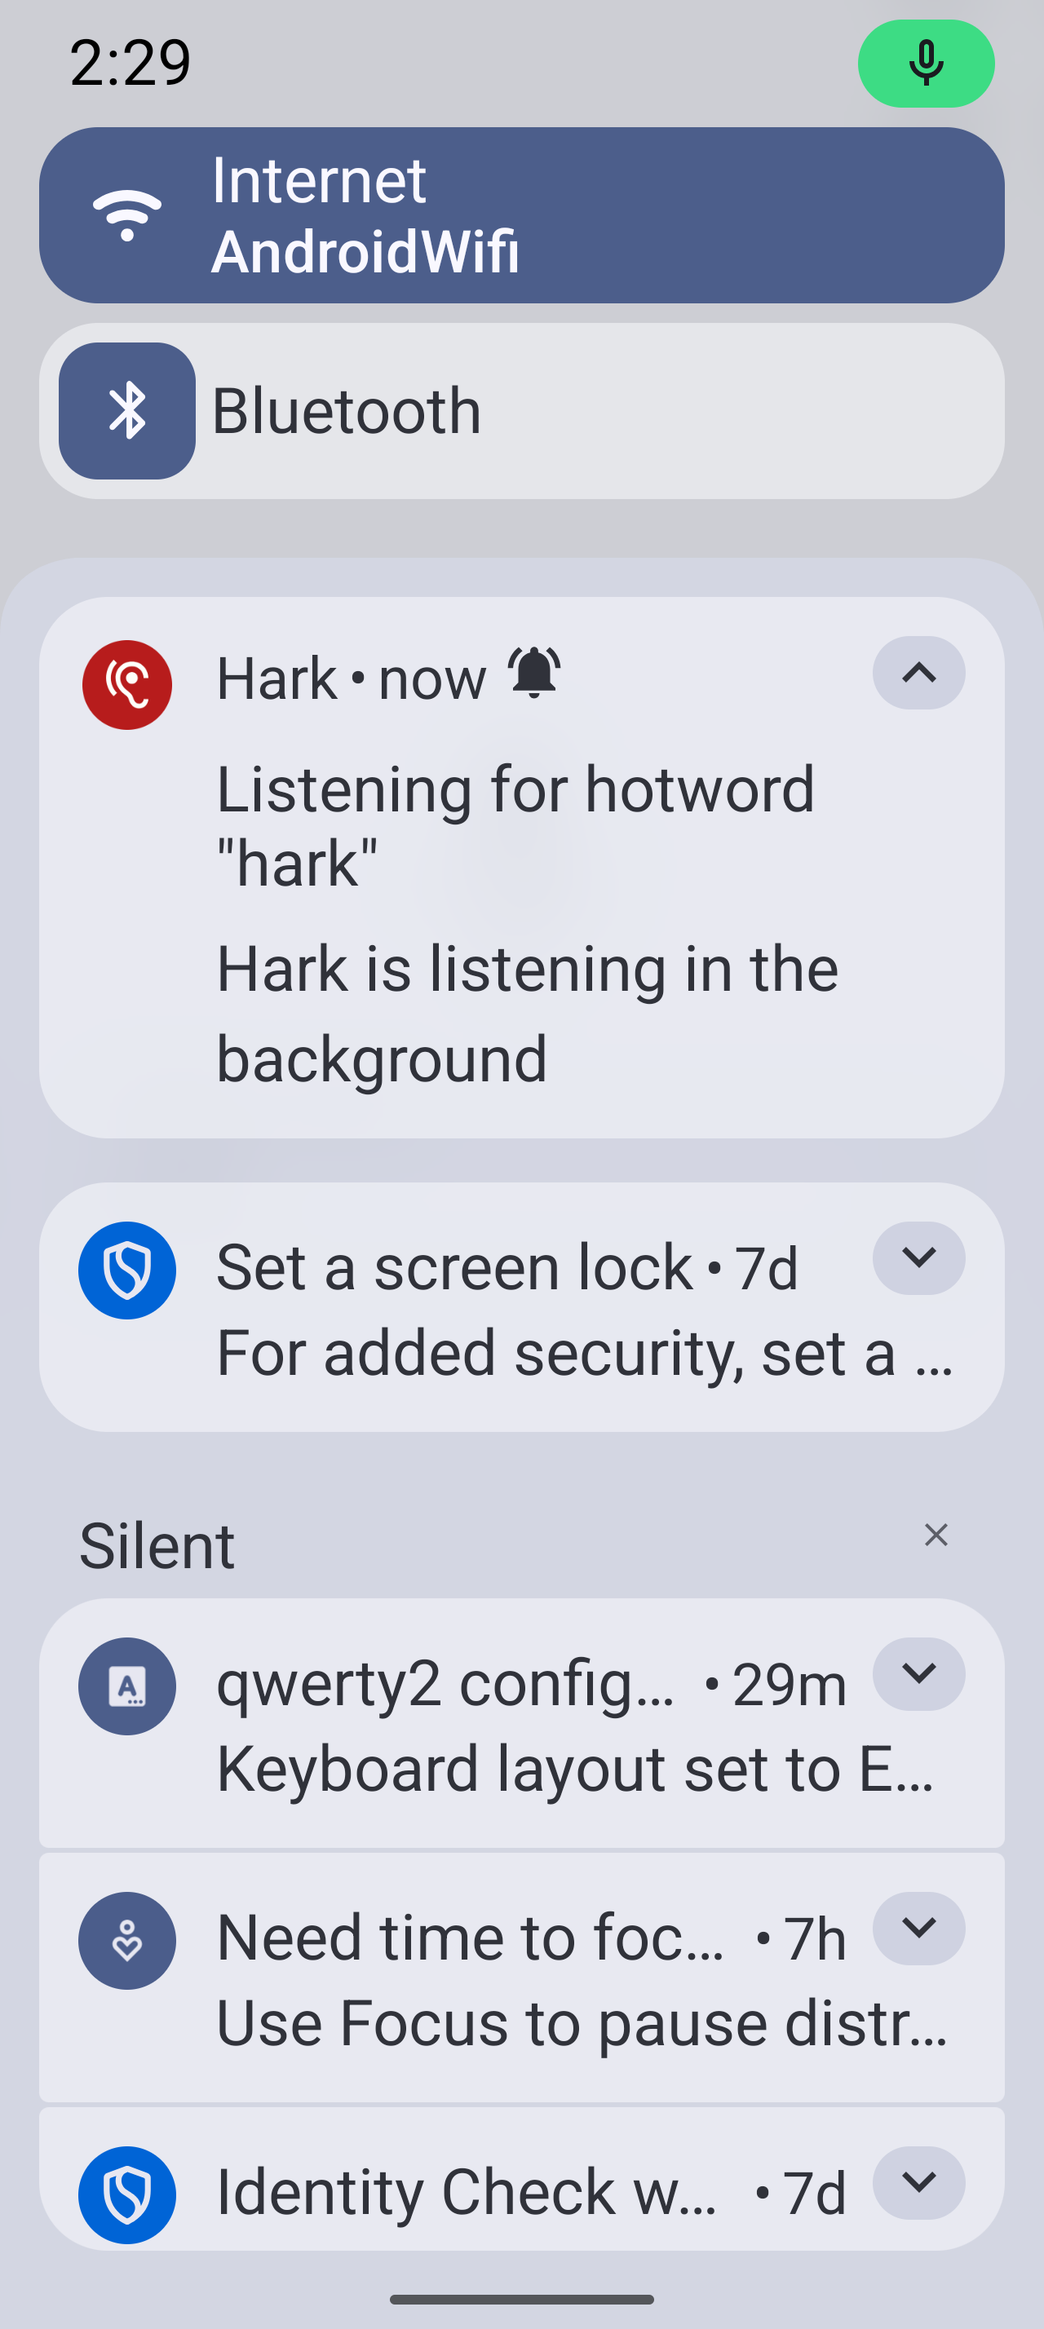
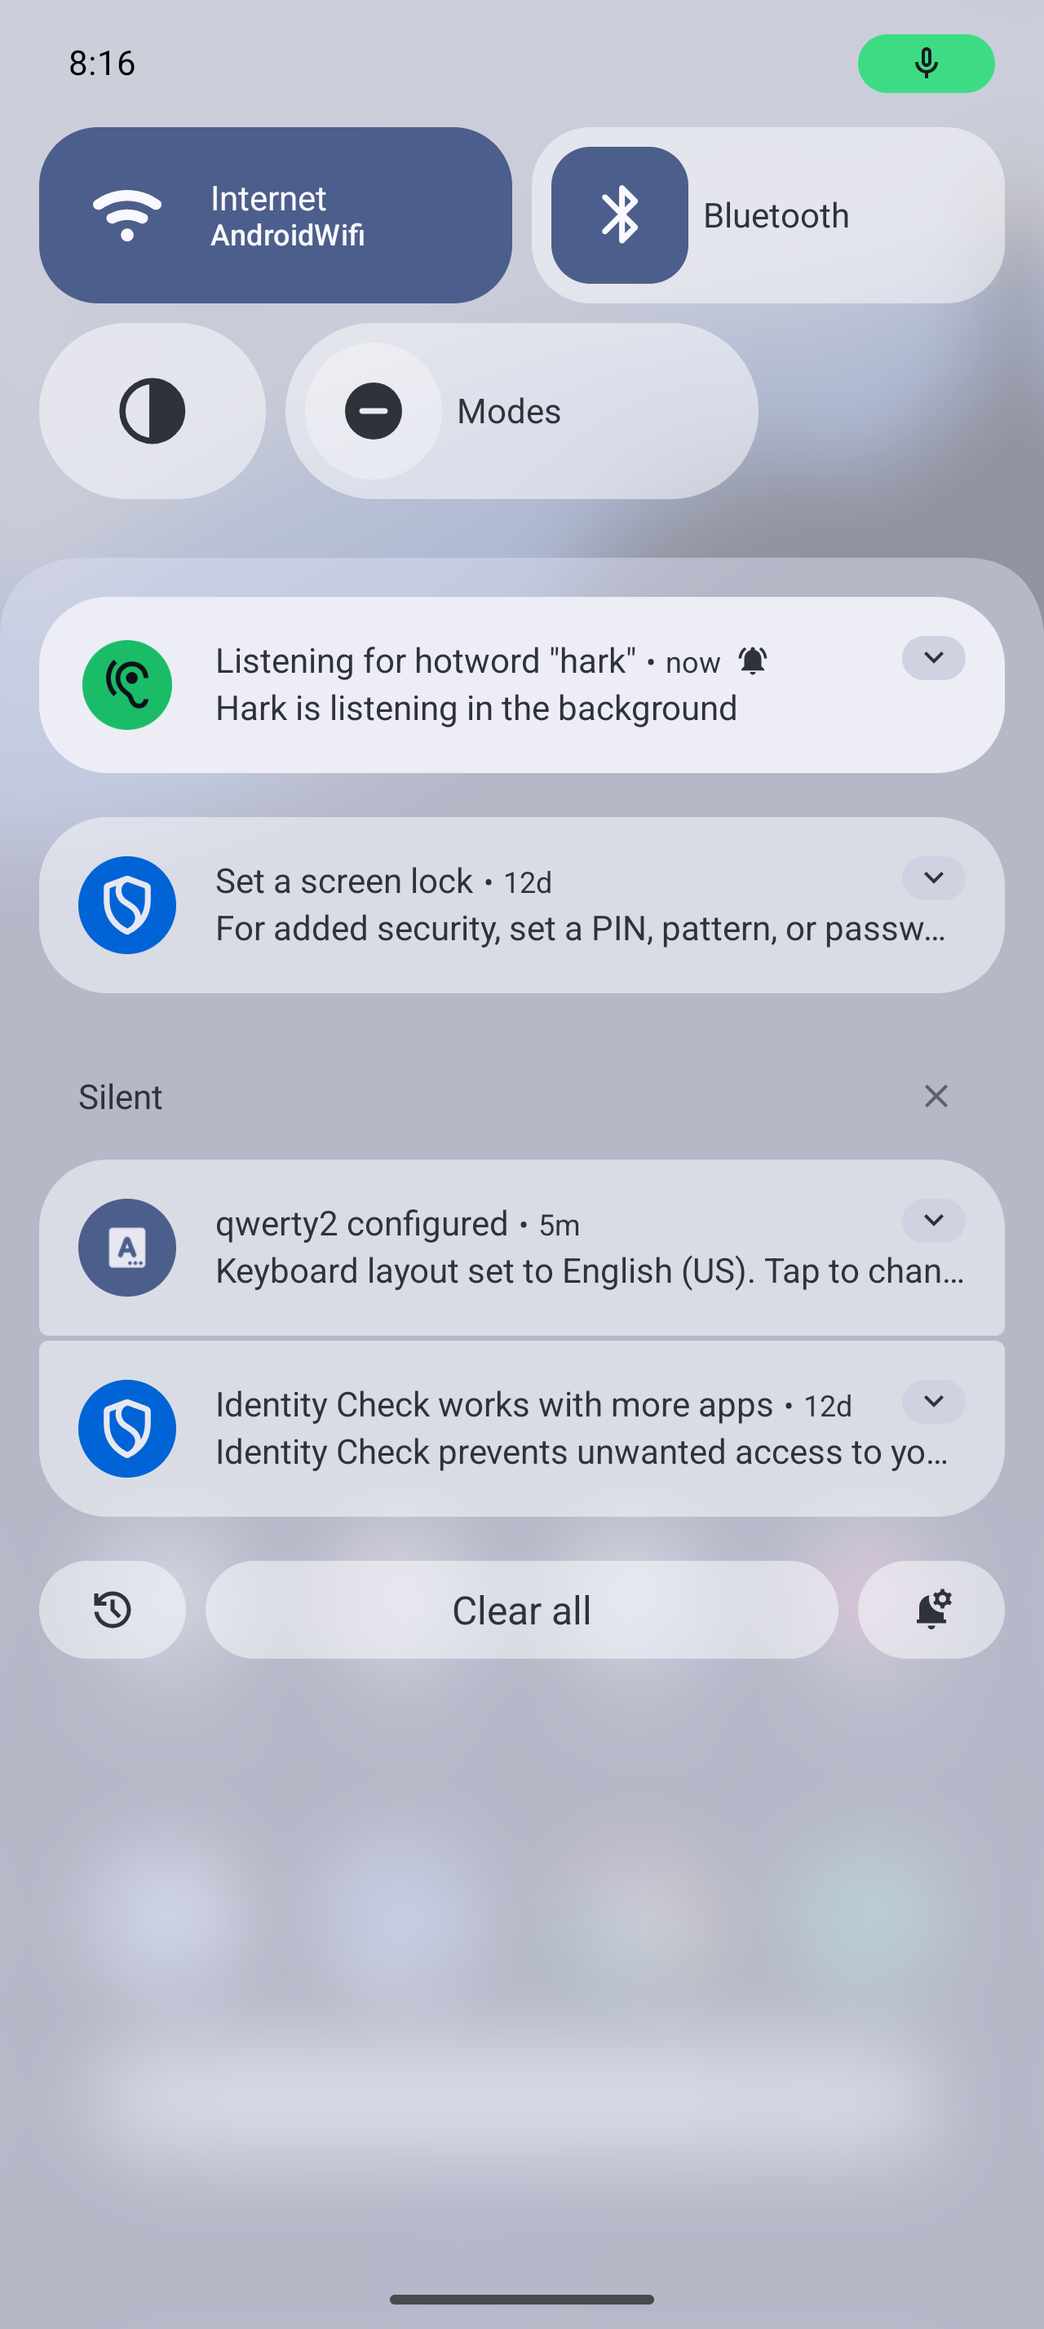
Fix sensitivity: persist it and use a stricter, measured scale (#11)
* Fix sensitivity: persist it, use a sane threshold range, make minimum stricter

Sensitivity was held only in the ViewModel, so every process restart reset it
to the lenient default. The slider also mapped 1..100 to 1e-2..1e-200, and
anything above ~22 underflowed to a threshold of 0.0, which fires on any
noise. The strictest setting (1e-2) was still too loose for a short word like
hark.

Slider is now 1..10 mapped to 1e-1..1e-19, saved in DataStore and loaded before
the first recognizer setup. Also rewords the settings copy and drops its em dash.

* Update README screenshots for the CRT terminal theme and new launcher accents

* Update README testing section and main screenshot

Test counts and class list were stale (64 tests, five classes). Now 81 tests
across seven classes, with the new BootReceiver and BrandColors tests, the
sensitivity coverage, and a note on what CI runs. Main screenshot shows the
settings gear below the status bar.

* Move README screenshots to just after the introduction

* README: document all permissions, boot persistence, and everything stored in DataStore

* Make the sensitivity scale stricter, tuned from measurements

Replaying 44 synthetic 'hark' utterances and 231 negatives (including near-rhymes
like hard, park, dark, harp) through the real decoder showed the keyword
threshold alone barely changes false alarms, even at 1e+2. The kws_delay and
kws_plp parameters do most of the work.
[…]

diff --git a/app/src/main/java/com/tuckercr/hark/ListenerViewModel.kt b/app/src/main/java/com/tuckercr/hark/ListenerViewModel.kt
@@ -29,6 +29,7 @@ import kotlinx.coroutines.flow.SharingStarted
 import kotlinx.coroutines.flow.StateFlow
 import kotlinx.coroutines.flow.asStateFlow
 import kotlinx.coroutines.flow.collectLatest
+import kotlinx.coroutines.flow.firstOrNull
 import kotlinx.coroutines.flow.stateIn
 import kotlinx.coroutines.flow.update
 import kotlinx.coroutines.launch
@@ -110,6 +111,11 @@ class ListenerViewModel @Inject constructor(
         checkPermissions()
         viewModelScope.launch {
             preferencesManager.wakeWordFlow.collectLatest { word ->
+                // Load the saved sensitivity before the first setup() so the recognizer never
+                // starts with the default and then restarts.
+                preferencesManager.sensitivityFlow.firstOrNull()?.let { saved ->
+                    _uiState.update { it.copy(sensitivity = saved.coerceIn(MIN_SENSITIVITY, MAX_SENSITIVITY)) }
+                }
                 val wakeWord = word ?: application.getString(R.string.default_wake_word)
                 if (_uiState.value.wakeWord != wakeWord) {
                     _uiState.update { it.copy(wakeWord = wakeWord) }
@@ -186,8 +192,8 @@ class ListenerViewModel @Inject constructor(
             return
         }
 
-        val threshold = ("1.e-" + 2 * _uiState.value.sensitivity).toFloat()
-        Log.d(TAG, "setup: wakeWord=$wakeWord threshold=$threshold")
+        val tuning = KeywordTuning.forSensitivity(_uiState.value.sensitivity)
+        Log.d(TAG, "setup: wakeWord=$wakeWord tuning=$tuning")
 
         setupJob?.cancel()
         setupJob =
@@ -205,7 +211,9 @@ class ListenerViewModel @Inject constructor(
                                 .defaultSetup()
                                 .setAcousticModel(File(assetsDir, "models/en-us-ptm"))
                                 .setDictionary(File(assetsDir, "models/lm/words.dic"))
-                                .setKeywordThreshold(threshold)
+                                .setKeywordThreshold(tuning.threshold)
+                                .setFloat("-kws_plp", tuning.phoneLoopProbability.toDouble())
+                                .setInteger("-kws_delay", tuning.delayFrames)
                                 .recognizer
                         }
                     newRecognizer.addKeyphraseSearch(HOT_WORD_SEARCH, wakeWord)
@@ -229,8 +237,10 @@ class ListenerViewModel @Inject constructor(
     }
 
     fun setSensitivity(value: Int) {
-        if (_uiState.value.sensitivity == value) return
-        _uiState.update { it.copy(sensitivity = value) }
+        if (_uiState.value.sensitivity == value.coerceIn(MIN_SENSITIVITY, MAX_SENSITIVITY)) return
+        val clamped = value.coerceIn(MIN_SENSITIVITY, MAX_SENSITIVITY)
+        _uiState.update { it.copy(sensitivity = clamped) }
+        viewModelScope.launch { preferencesManager.setSensitivity(clamped) }
         shutdownRecognizer()
         setup()
     }
@@ -310,6 +320,8 @@ class ListenerViewModel @Inject constructor(
     companion object {
         private const val TAG = "ListenerViewModel"
         private const val HOT_WORD_SEARCH = "HOT_WORD_SEARCH"
-        const val DEFAULT_SENSITIVITY = 3
+        const val MIN_SENSITIVITY = KeywordTuning.MIN_SENSITIVITY
+        const val MAX_SENSITIVITY = KeywordTuning.MAX_SENSITIVITY
+        const val DEFAULT_SENSITIVITY = KeywordTuning.DEFAULT_SENSITIVITY
     }
 }

diff --git a/app/src/main/java/com/tuckercr/hark/KeywordTuning.kt b/app/src/main/java/com/tuckercr/hark/KeywordTuning.kt
@@ -1,0 +1,44 @@
+package com.tuckercr.hark
+
+/**
+ * PocketSphinx keyword-spotting parameters for one slider position.
+ *
+ * [threshold] (`-kws_threshold`): smaller fires more easily.
+ * [phoneLoopProbability] (`-kws_plp`): higher makes the background model harder to beat.
+ * [delayFrames] (`-kws_delay`, 10 ms frames): wait this long after the word for the best score.
+ * More delay means fewer false alarms but slower and less certain detection.
+ */
+data class KeywordTuning(
+    val threshold: Float,
+    val phoneLoopProbability: Float,
+    val delayFrames: Int,
+) {
+    companion object {
+        const val MIN_SENSITIVITY = 1
+        const val MAX_SENSITIVITY = 10
+        const val DEFAULT_SENSITIVITY = 4
+
+        /**
+         * Measured on the "hark" keyphrase with 11 synthetic voices (44 target utterances, 231
+         * negatives including near-rhymes such as hard, heart, park, dark, hawk, harp, car). The
+         * threshold alone barely changes the false-alarm rate; delay and plp do most of the work.
+         * Approximate hits / false alarms: 1: 3/4, 2: 5/4, 3: 7/7, 4: 12/17, 5: 14/20, 6: 16/35,
+         * 7: 17/52, 8: 20/70, 9: 25/82. Level 10 is extrapolated.
+         */
+        private val LEVELS =
+            listOf(
+                KeywordTuning(1e-1f, 0.9f, 80),
+                KeywordTuning(1e-5f, 0.9f, 80),
+                KeywordTuning(1e-10f, 0.9f, 80),
+                KeywordTuning(1e-3f, 0.9f, 40),
+                KeywordTuning(1e-5f, 0.9f, 40),
+                KeywordTuning(1e-10f, 0.9f, 40),
+                KeywordTuning(1e-10f, 0.1f, 10),
+                KeywordTuning(1e-15f, 0.1f, 10),
+                KeywordTuning(1e-20f, 0.1f, 10),
+                KeywordTuning(1e-30f, 0.1f, 10),
+            )
+
+        fun forSensitivity(sensitivity: Int): KeywordTuning = LEVELS[sensitivity.coerceIn(MIN_SENSITIVITY, MAX_SENSITIVITY) - 1]
+    }
+}

diff --git a/app/src/main/java/com/tuckercr/hark/prefs/PreferencesManager.kt b/app/src/main/java/com/tuckercr/hark/prefs/PreferencesManager.kt
@@ -5,6 +5,7 @@ import androidx.datastore.preferences.core.Preferences
 import androidx.datastore.preferences.core.booleanPreferencesKey
 import androidx.datastore.preferences.core.edit
 import androidx.datastore.preferences.core.emptyPreferences
+import androidx.datastore.preferences.core.intPreferencesKey
 import androidx.datastore.preferences.core.stringPreferencesKey
 import com.tuckercr.hark.DetectionAction
 import kotlinx.coroutines.flow.Flow
@@ -18,6 +19,7 @@ class PreferencesManager(
     object PreferencesKeys {
         val WAKE_WORD = stringPreferencesKey("wake_word")
         val ONBOARDING_COMPLETE = booleanPreferencesKey("onboarding_complete")
+        val SENSITIVITY = intPreferencesKey("sensitivity")
         val DETECTION_ACTION_TYPE = stringPreferencesKey("detection_action_type")
         val DETECTION_ACTION_PACKAGE = stringPreferencesKey("detection_action_package")
         val DETECTION_ACTION_NAME = stringPreferencesKey("detection_action_name")
@@ -29,6 +31,8 @@ class PreferencesManager(
         }
 
     val wakeWordFlow: Flow<String?> = safeData.map { it[PreferencesKeys.WAKE_WORD] }
+
+    val sensitivityFlow: Flow<Int?> = safeData.map { it[PreferencesKeys.SENSITIVITY] }
 
     val onboardingCompleteFlow: Flow<Boolean> =
         safeData.map { it[PreferencesKeys.ONBOARDING_COMPLETE] ?: false }
@@ -47,6 +51,10 @@ class PreferencesManager(
 
     suspend fun updateWakeWord(wakeWord: String) {
         dataStore.edit { it[PreferencesKeys.WAKE_WORD] = wakeWord }
+    }
+
+    suspend fun setSensitivity(sensitivity: Int) {
+        dataStore.edit { it[PreferencesKeys.SENSITIVITY] = sensitivity }
     }
 
     suspend fun setOnboardingComplete(complete: Boolean) {

diff --git a/app/src/test/java/com/tuckercr/hark/KeywordTuningTest.kt b/app/src/test/java/com/tuckercr/hark/KeywordTuningTest.kt
@@ -1,0 +1,45 @@
+package com.tuckercr.hark
+
+import org.junit.Assert.assertEquals
+import org.junit.Assert.assertTrue
+import org.junit.Test
+
+class KeywordTuningTest {
+    private val levels = (KeywordTuning.MIN_SENSITIVITY..KeywordTuning.MAX_SENSITIVITY).map { KeywordTuning.forSensitivity(it) }
+
+    @Test
+    fun `strictest level waits longest and is stricter than the most sensitive on every axis`() {
+        val strict = levels.first()
+        val loose = levels.last()
+        assertTrue(strict.delayFrames > loose.delayFrames)
+        assertTrue(strict.phoneLoopProbability > loose.phoneLoopProbability)
+        assertTrue(strict.threshold > loose.threshold)
+    }
+
+    @Test
+    fun `detection delay never increases as sensitivity rises`() {
+        assertEquals(levels.map { it.delayFrames }.sortedDescending(), levels.map { it.delayFrames })
+    }
+
+    @Test
+    fun `thresholds never underflow to zero`() {
+        assertTrue(levels.all { it.threshold > 0f })
+    }
+
+    @Test
+    fun `every level is distinct`() {
+        assertEquals(levels.size, levels.toSet().size)
+    }
+
+    @Test
+    fun `out of range sensitivity is clamped`() {
+        assertEquals(levels.first(), KeywordTuning.forSensitivity(-5))
+        assertEquals(levels.last(), KeywordTuning.forSensitivity(500))
+    }
+
+    @Test
+    fun `default sensitivity is inside the range and stricter than the old default`() {
+        assertTrue(KeywordTuning.DEFAULT_SENSITIVITY in KeywordTuning.MIN_SENSITIVITY..KeywordTuning.MAX_SENSITIVITY)
+        assertTrue(KeywordTuning.forSensitivity(KeywordTuning.DEFAULT_SENSITIVITY).delayFrames > 10)
+    }
+}

diff --git a/app/src/test/java/com/tuckercr/hark/ListenerViewModelTest.kt b/app/src/test/java/com/tuckercr/hark/ListenerViewModelTest.kt
@@ -51,6 +51,7 @@ class ListenerViewModelTest {
 
         every { preferencesManager.wakeWordFlow } returns flowOf("testword")
         every { preferencesManager.onboardingCompleteFlow } returns flowOf(false)
+        every { preferencesManager.sensitivityFlow } returns flowOf(null)
         every { dictionaryRepository.loadList() } returns emptyList()
 
         denyPermission()
@@ -178,6 +179,24 @@ class ListenerViewModelTest {
         val newValue = ListenerViewModel.DEFAULT_SENSITIVITY + 1
         viewModel.setSensitivity(newValue)
         assertEquals(MicState.DISABLED_NO_PERMISSION, viewModel.uiState.value.micState)
+    }
+
+    @Test
+    fun `setSensitivity persists the value`() {
+        viewModel.setSensitivity(2)
+        coVerify { preferencesManager.setSensitivity(2) }
+    }
+
+    @Test
+    fun `setSensitivity clamps out of range values`() {
+        viewModel.setSensitivity(500)
+        assertEquals(ListenerViewModel.MAX_SENSITIVITY, viewModel.uiState.value.sensitivity)
+    }
+
+    @Test
+    fun `saved sensitivity is loaded on startup`() {
+        every { preferencesManager.sensitivityFlow } returns flowOf(1)
+        assertEquals(1, newViewModel().uiState.value.sensitivity)
     }
 
     // endregion

diff --git a/app/src/main/java/com/tuckercr/hark/ui/screens/SettingsScreen.kt b/app/src/main/java/com/tuckercr/hark/ui/screens/SettingsScreen.kt
@@ -43,6 +43,7 @@ import androidx.compose.ui.tooling.preview.Preview
 import androidx.compose.ui.unit.dp
 import androidx.compose.ui.window.Dialog
 import com.tuckercr.hark.DetectionAction
+import com.tuckercr.hark.ListenerViewModel
 import com.tuckercr.hark.R
 import com.tuckercr.hark.ui.theme.HarkTheme
 
@@ -118,7 +119,8 @@ fun SettingsScreen(
                 value = sliderValue,
                 onValueChange = { sliderValue = it },
                 onValueChangeFinished = { onSensitivityChanged(sliderValue.toInt()) },
-                valueRange = 1f..100f,
+                valueRange = ListenerViewModel.MIN_SENSITIVITY.toFloat()..ListenerViewModel.MAX_SENSITIVITY.toFloat(),
+                steps = ListenerViewModel.MAX_SENSITIVITY - ListenerViewModel.MIN_SENSITIVITY - 1,
                 modifier = Modifier.fillMaxWidth(),
             )
 
@@ -245,7 +247,7 @@ private fun AppRow(
 private fun SettingsScreenPreview() {
     HarkTheme {
         SettingsScreen(
-            sensitivity = 20,
+            sensitivity = 3,
             onSensitivityChanged = {},
             detectionAction = DetectionAction.Default,
             onDetectionActionChanged = {},

diff --git a/app/src/test/java/com/tuckercr/hark/PreferencesManagerTest.kt b/app/src/test/java/com/tuckercr/hark/PreferencesManagerTest.kt
@@ -44,6 +44,20 @@ class PreferencesManagerTest {
         }
 
     @Test
+    fun `sensitivityFlow emits null when no preference is set`() =
+        runBlocking {
+            assertNull(createManager().sensitivityFlow.first())
+        }
+
+    @Test
+    fun `setSensitivity persists the value`() =
+        runBlocking<Unit> {
+            val pm = createManager()
+            pm.setSensitivity(2)
+            assertEquals(2, pm.sensitivityFlow.first())
+        }
+
+    @Test
     fun `updateWakeWord overwrites the previous value`() =
         runBlocking<Unit> {
             val pm = createManager()

diff --git a/README.md b/README.md
@@ -9,6 +9,23 @@ The original use case was accessibility: alerting a hearing-impaired user the mo
 
 ---
 
+## Screenshots
+
+<table>
+<tr>
+<td><img src="screenshots/main.png" width="180" alt="Main screen"/></td>
+<td><img src="screenshots/triggered.png" width="180" alt="Wake word detected"/></td>
+<td><img src="screenshots/fg_service.png" width="180" alt="Background service notification"/></td>
+</tr>
+<tr>
+<td align="center">Main screen</td>
+<td align="center">Wake word detected</td>
+<td align="center">Background notification</td>
+</tr>
+</table>
+
+---
+
 ## How the on-device recognition works
 
 PocketSphinx bundles a pre-trained acoustic model (CMU US English, PTM variant) and a pronunciation dictionary of ~130k words. At runtime, Hark:
@@ -27,7 +44,8 @@ No audio ever leaves the device. The microphone feed is consumed entirely by Poc
 - **MVVM** — `ListenerViewModel` owns all recogniser state and exposes it as a single `StateFlow<ListenerUiState>`. The Activity and Compose screens observe this flow; they never touch the recogniser directly.
 - **Foreground service** — Android 14+ requires microphone foreground services to be started while the app is in the foreground. `ListenerService` is started from `onResume` to satisfy this constraint, then keeps running in the background.
 - **Hilt** — `SpeechRecognizer`, `ChimePlayer`, and `DictionaryRepository` are injected; `PreferencesManager` wraps a `DataStore<Preferences>` injected through `AppModule`.
-- **DataStore** — wake word choice and onboarding state survive process death.
+- **DataStore** — wake word, sensitivity, detection action, and onboarding state survive process death.
+- **Boot persistence** — `BootReceiver` restarts the listener after a reboot when a wake word is configured.
 - **Permission recovery** — if the user sets microphone permission to "Ask Every Time" and force-closes the app, `onResume` re-requests the permission once per Activity session using `ActivityResultContracts.RequestMultiplePermissions`, with a flag to prevent a loop when the dialog dismissal triggers another `onResume`.
 
 ---
@@ -49,19 +67,23 @@ No audio ever leaves the device. The microphone feed is consumed entirely by Poc
 
 ## Testing
 
-64 unit tests across five classes, all running on the JVM without Robolectric:
+81 unit tests across seven classes, all running on the JVM without Robolectric:
 
-- **`ListenerViewModelTest`** (35) — initial state, permission transitions, all `RecognitionListener` callbacks (begin/end/partial/result), re-trigger guard, sensitivity changes, wake-word flow updates, `onCleared`
-- **`PreferencesManagerTest`** (10) — real `DataStore` backed by a temp file; covers read, write, overwrite, and clear for both preferences
+- **`ListenerViewModelTest`** (40) — initial state, permission transitions, all `RecognitionListener` callbacks (begin/end/partial/result), re-trigger guard, sensitivity (clamping, persistence, loading the saved value on startup, the threshold mapping), wake-word flow updates, `onCleared`
+- **`PreferencesManagerTest`** (16) — real `DataStore` backed by a temp file; covers read, write, overwrite, and clear for wake word, onboarding, sensitivity, and the detection action
 - **`ListenerUiStateTest`** (11) — data class semantics and copy behaviour
 - **`NotificationUtilsTest`** (6) — vibration pattern, notification IDs
+- **`BootReceiverTest`** (3) — the service starts after boot only when a wake word is configured
+- **`BrandColorsTest`** (3) — fails if hex colors appear in drawables or Kotlin outside `colors.xml`, so the palette stays in one place
 - **`MicStateTest`** (2) — enum completeness
 
 Key testing choices:
 
 - `ContextCompat.checkSelfPermission` routes through `context.checkPermission(permission, pid, uid)` on the JVM (SDK\_INT = 0 path). Stubbing `checkPermission` on the mock `Application` gives full permission control without `mockkStatic`.
 - `returnDefaultValues = true` makes Android stub methods return 0/null instead of throwing, so coroutines in the `ViewModel` init block run to completion.
-- `recognitionListener` is `internal` so tests call its callbacks directly and assert on the resulting `uiState`.
+- `recognitionListener`, `thresholdFor`, and `BootReceiver.startIfWakeWordConfigured` are `internal` so tests call them directly instead of going through Android components.
+
+CI runs `./gradlew lint test build` and `./gradlew ktlintCheck` on every push and pull request.
 
 ---
 
@@ -71,21 +93,7 @@ Key testing choices:
 |---|---|
 | `RECORD_AUDIO` | Microphone input for wake-word detection |
 | `POST_NOTIFICATIONS` | Heads-up alert when the word is heard |
+| `FOREGROUND_SERVICE` | Run the listener as a foreground service |
 | `FOREGROUND_SERVICE_MICROPHONE` | Keep the listener alive in the background |
-
----
-
-## Screenshots
-
-<table>
-<tr>
-<td><img src="screenshots/main.png" width="180" alt="Main screen"/></td>
-<td><img src="screenshots/triggered.png" width="180" alt="Wake word detected"/></td>
-<td><img src="screenshots/fg_service.png" width="180" alt="Background service notification"/></td>
-</tr>
-<tr>
-<td align="center">Main screen</td>
-<td align="center">Wake word detected</td>
-<td align="center">Background notification</td>
-</tr>
-</table>
+| `VIBRATE` | Vibrate when the word is heard |
+| `RECEIVE_BOOT_COMPLETED` | Restart the listener after the device reboots |
